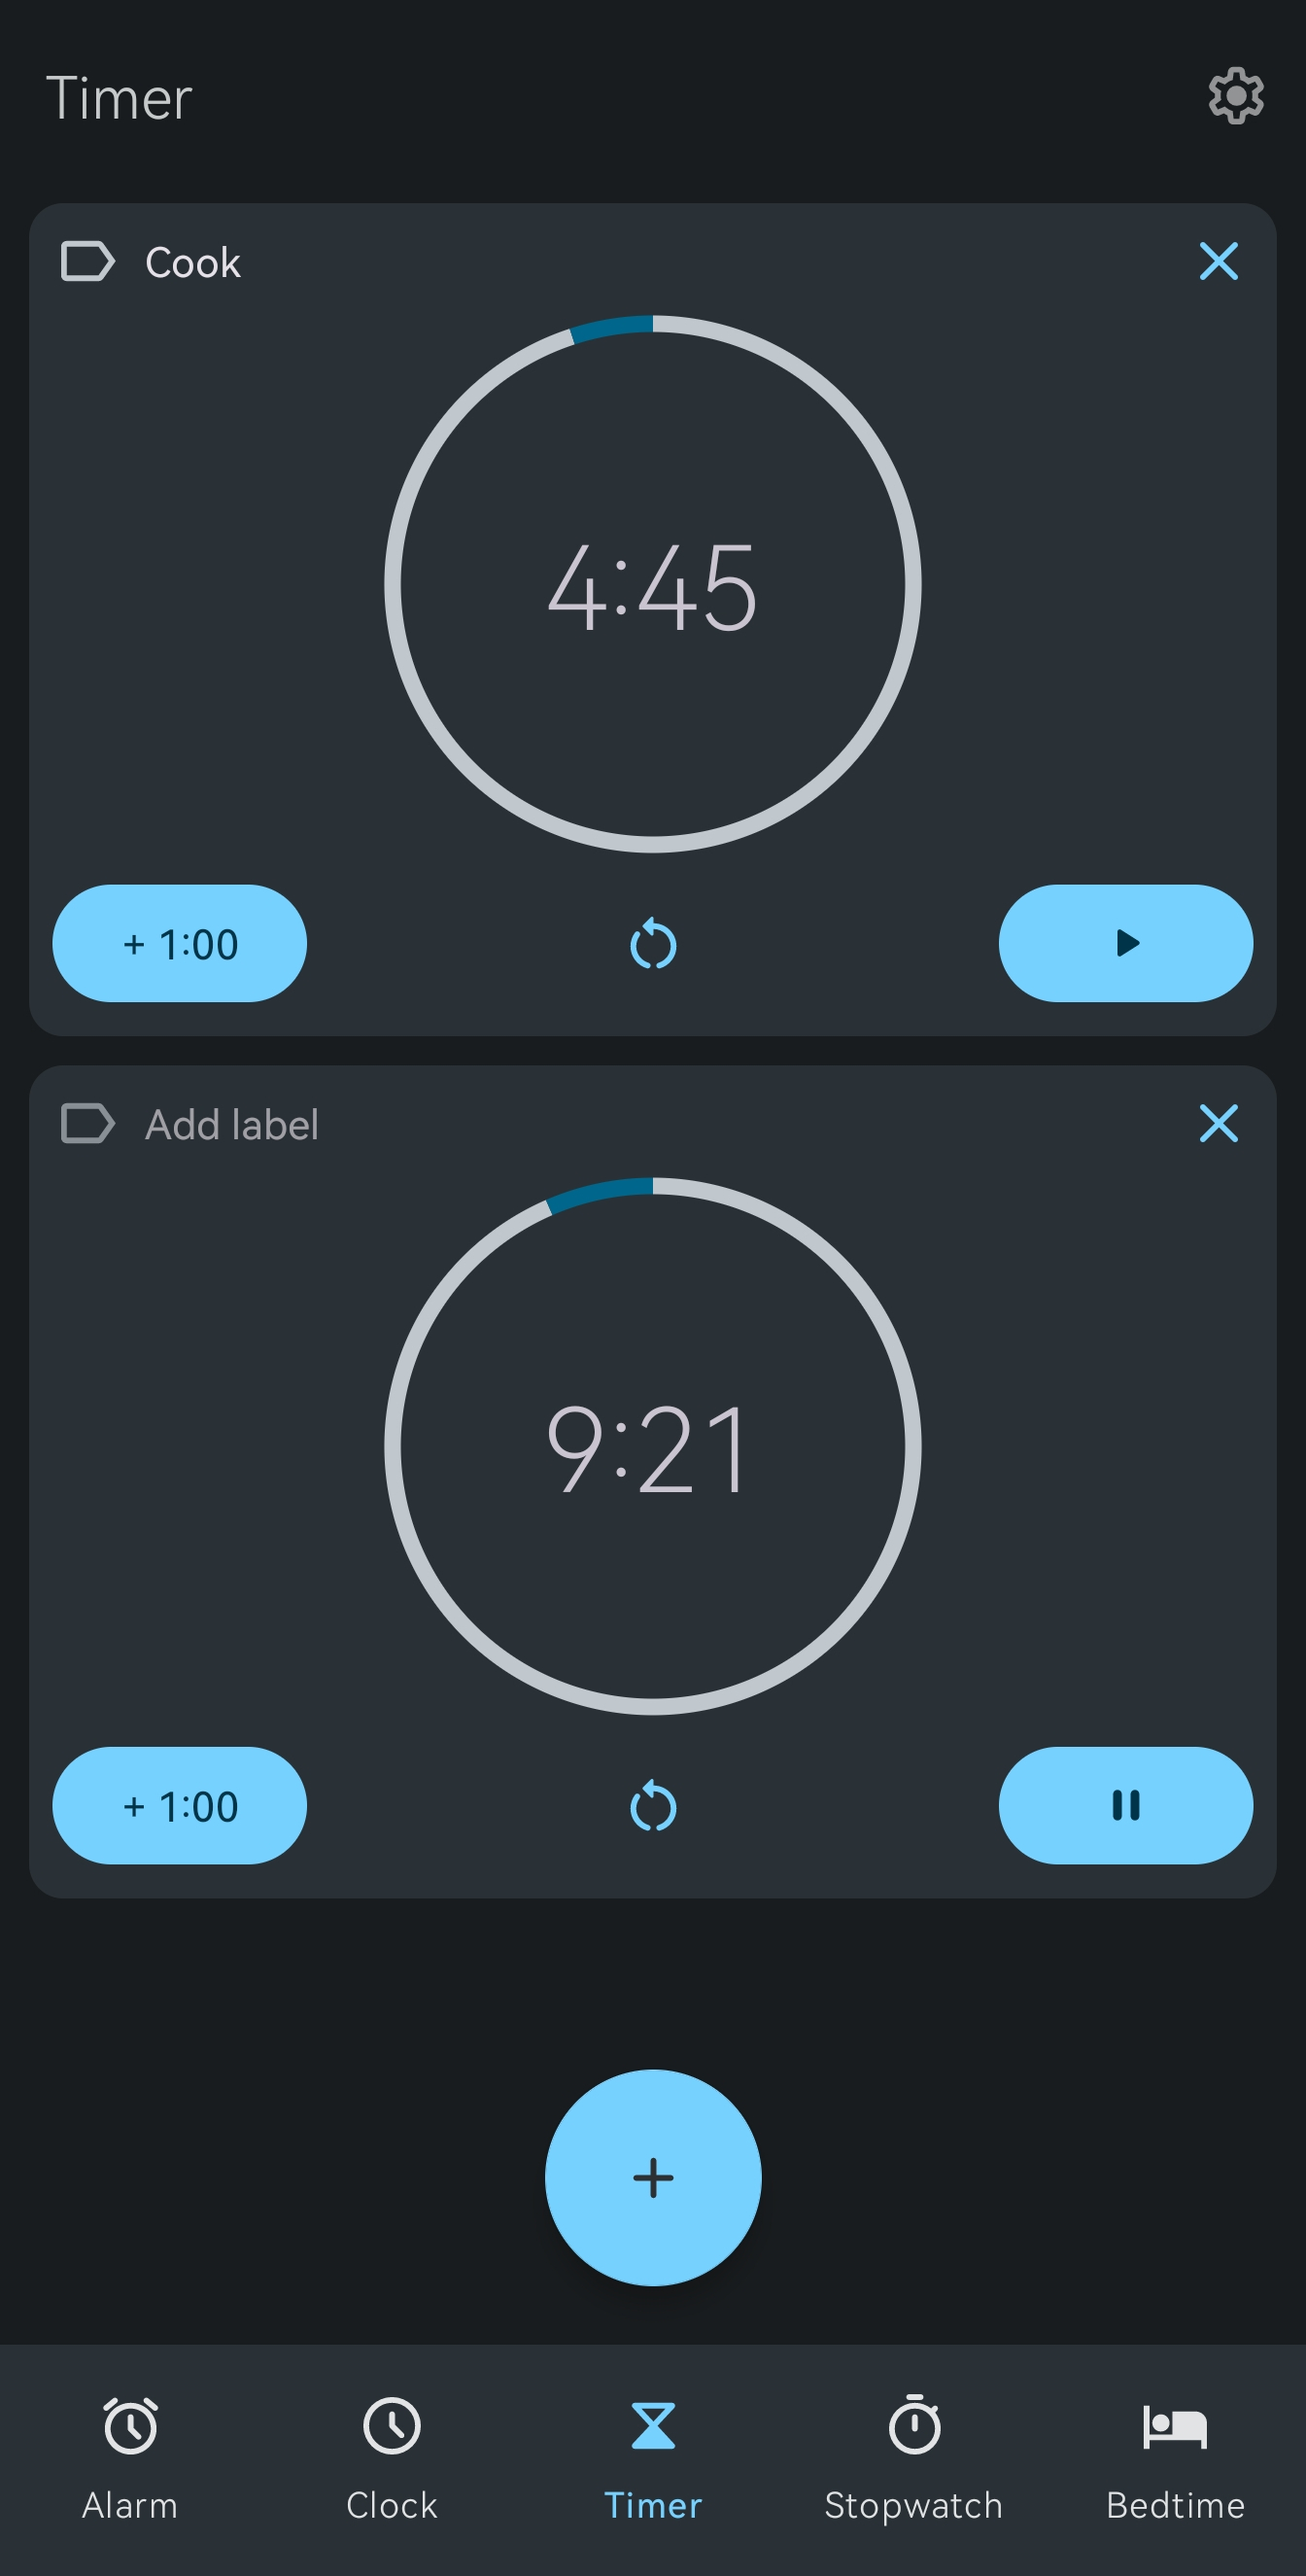
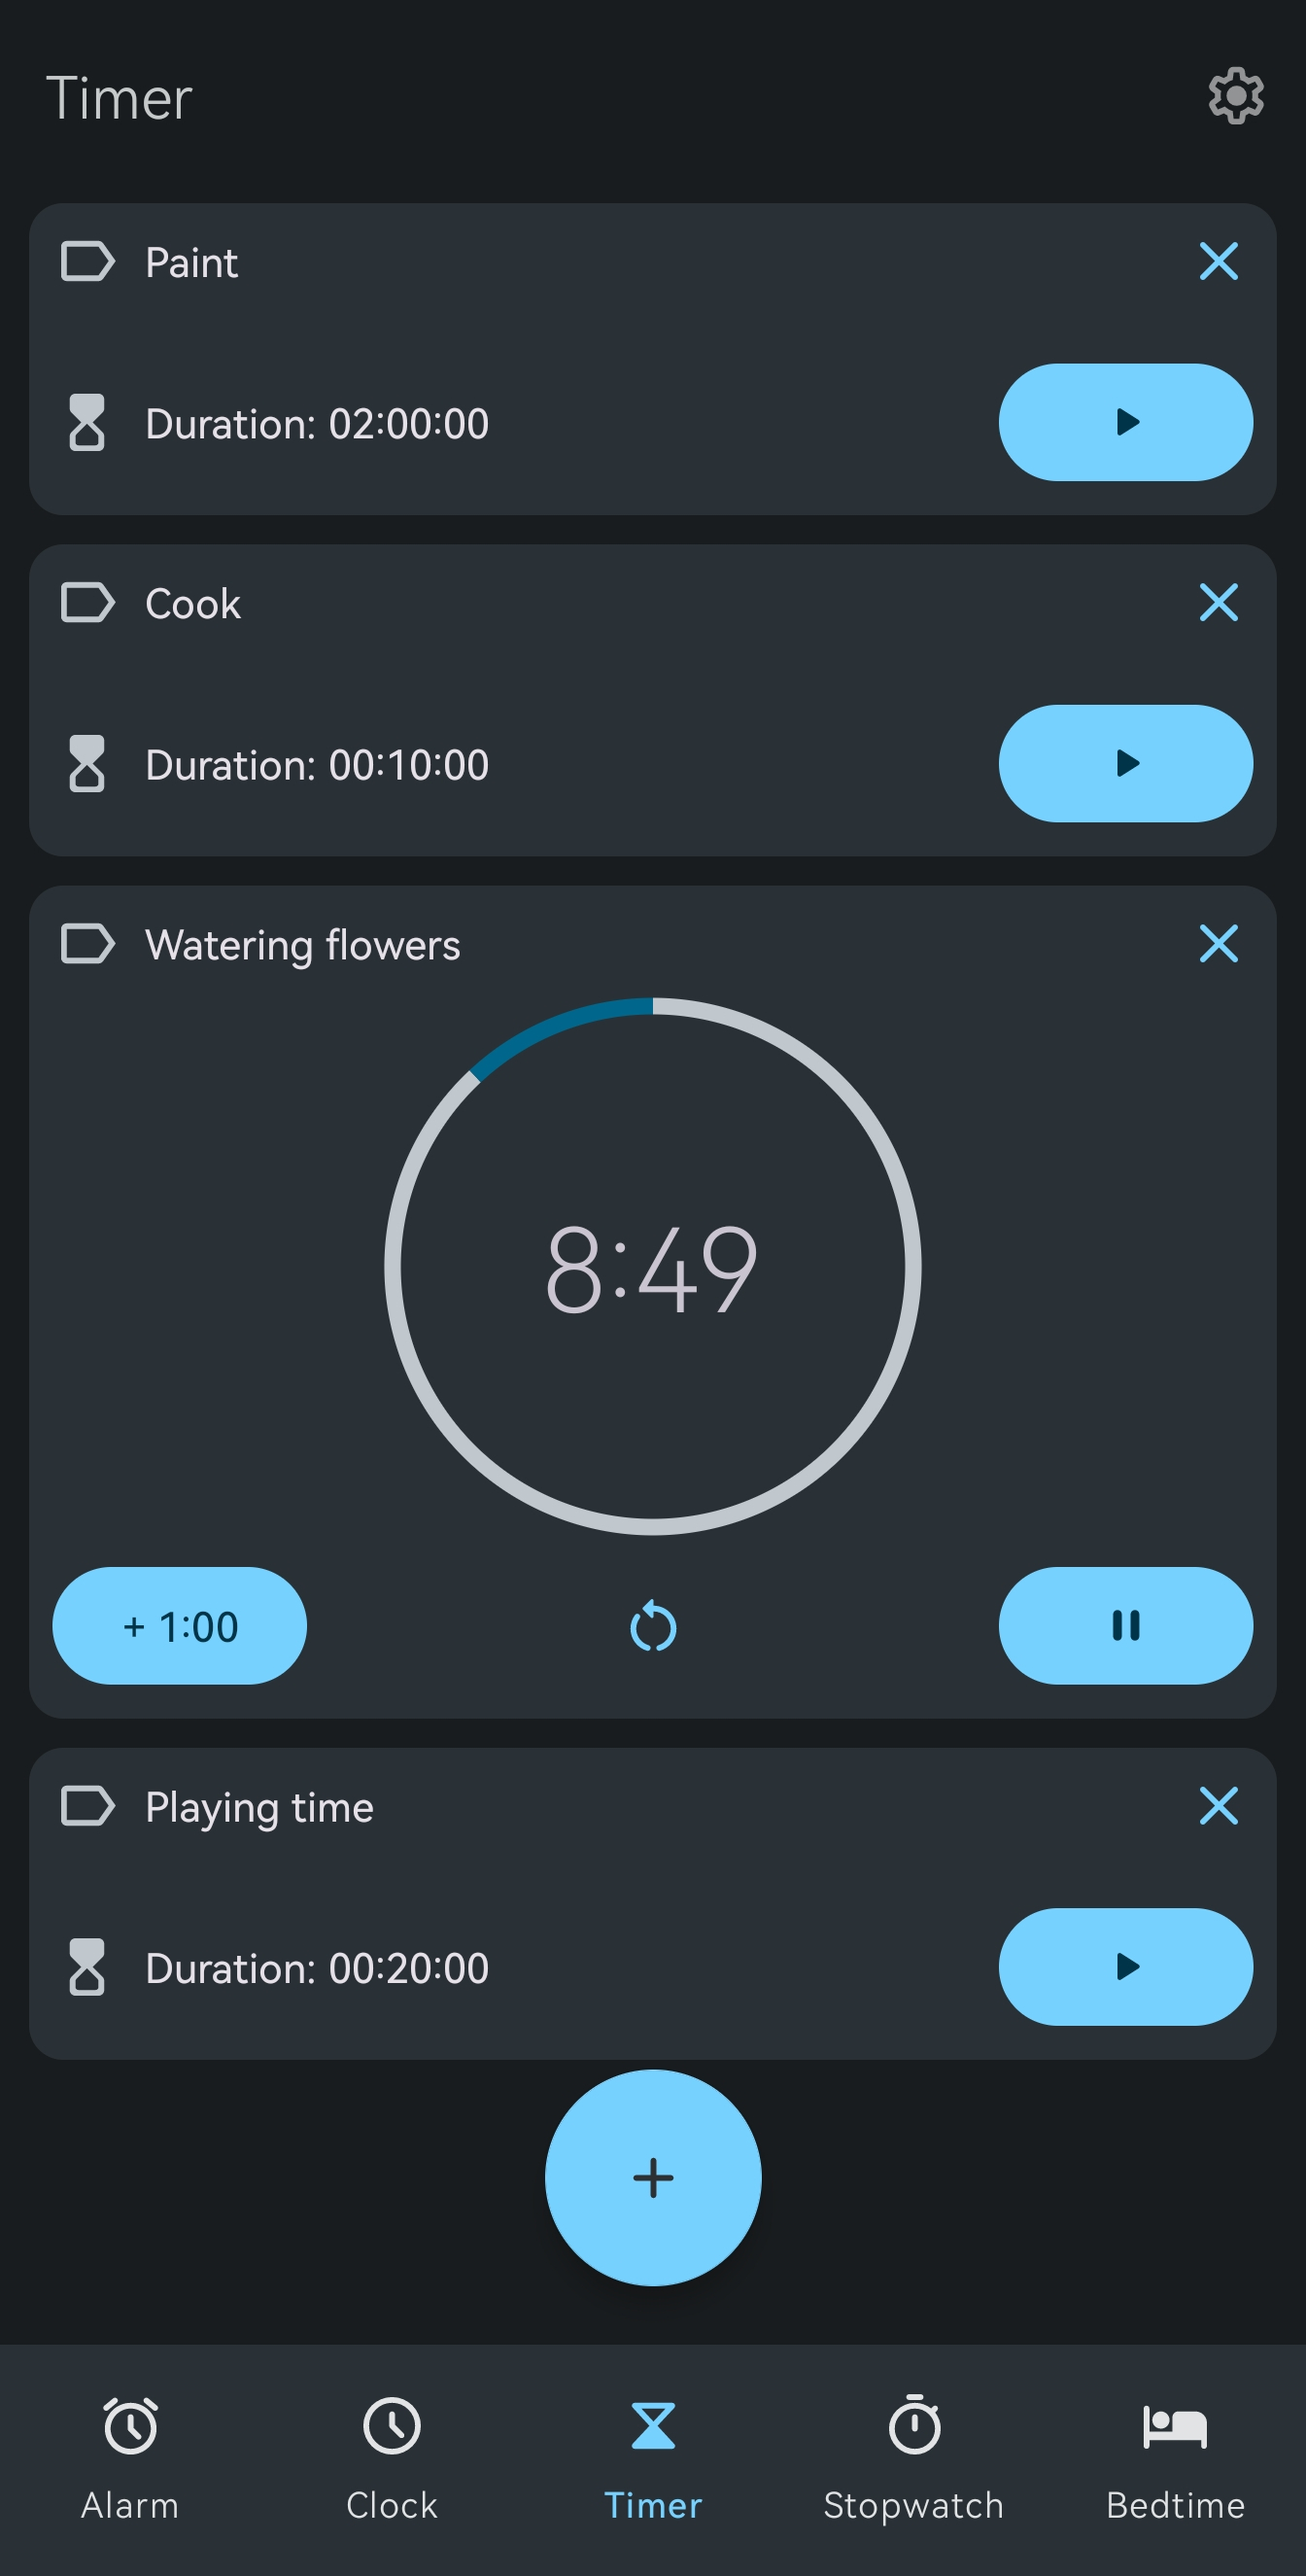
Timer display is reduced when stopped - Fix #30
- Only phones in portrait mode are affected (tablets maintain the same behavior);

diff --git a/app/src/main/java/com/best/deskclock/timer/TimerItem.java b/app/src/main/java/com/best/deskclock/timer/TimerItem.java
@@ -16,8 +16,10 @@ import android.widget.TextView;
 import androidx.appcompat.content.res.AppCompatResources;
 import androidx.constraintlayout.widget.ConstraintLayout;
 
+import com.best.deskclock.CircleButtonsLayout;
 import com.best.deskclock.R;
 import com.best.deskclock.TimerTextController;
+import com.best.deskclock.Utils;
 import com.best.deskclock.data.Timer;
 
 import com.google.android.material.button.MaterialButton;
@@ -26,6 +28,11 @@ import com.google.android.material.button.MaterialButton;
  * This view is a visual representation of a {@link Timer}.
  */
 public class TimerItem extends ConstraintLayout {
+
+    /**
+     * The container of TimerCircleView and TimerTextController
+     */
+    private CircleButtonsLayout mCircleContainer;
 
     /**
      * Formats and displays the text in the timer.
@@ -56,6 +63,11 @@ public class TimerItem extends ConstraintLayout {
      */
     private Timer.State mLastState;
 
+    /**
+     * The timer duration text that appears when the timer is reset
+     */
+    private TextView mTimerTotalDurationText;
+
     public TimerItem(Context context) {
         this(context, null);
     }
@@ -73,8 +85,13 @@ public class TimerItem extends ConstraintLayout {
         mCircleView = findViewById(R.id.timer_time);
         // Displays the remaining time or time since expiration.
         TextView timerText = findViewById(R.id.timer_time_text);
-        mPlayPauseButton = findViewById(R.id.play_pause);
         mTimerTextController = new TimerTextController(timerText);
+        mPlayPauseButton = findViewById(R.id.play_pause);
+        mCircleContainer = findViewById(R.id.circle_container);
+        // Necessary to avoid the null pointer exception, as only the timer_item layout for portrait mode has these attributes
+        if (!Utils.isTablet(getContext()) && !Utils.isLandscape(getContext())) {
+            mTimerTotalDurationText = findViewById(R.id.timer_total_duration);
+        }
     }
 
     /**
@@ -83,6 +100,11 @@ public class TimerItem extends ConstraintLayout {
     void update(Timer timer) {
         // Update the time.
         mTimerTextController.setTimeString(timer.getRemainingTime());
+
+        if (!Utils.isTablet(getContext()) && !Utils.isLandscape(getContext())) {
+            final String totalDuration = timer.getTotalDuration();
+            mTimerTotalDurationText.setText(getContext().getString(R.string.timer_total_duration_text, totalDuration));
+        }
 
         // Update the label if it changed.
         final String label = timer.getLabel();
@@ -115,15 +137,38 @@ public class TimerItem extends ConstraintLayout {
             mResetButton.setContentDescription(resetDesc);
             mAddButton.setVisibility(View.VISIBLE);
             mLastState = timer.getState();
+
+            if (!Utils.isTablet(context) && !Utils.isLandscape(context)) {
+                final ConstraintLayout.LayoutParams params = (ConstraintLayout.LayoutParams) mPlayPauseButton.getLayoutParams();
+                params.topMargin = Utils.toPixel(timer.getState().equals(Timer.State.RESET) ? 20 : 0, context);
+                mPlayPauseButton.setLayoutParams(params);
+            }
+
             switch (mLastState) {
                 case RESET -> {
                     mResetButton.setVisibility(View.GONE);
                     mResetButton.setContentDescription(null);
                     mAddButton.setVisibility(View.INVISIBLE);
                     mPlayPauseButton.setIcon(AppCompatResources.getDrawable(context, R.drawable.ic_fab_play));
+                    if (!Utils.isTablet(context) && !Utils.isLandscape(context)) {
+                        mCircleContainer.setVisibility(GONE);
+                        mTimerTotalDurationText.setVisibility(VISIBLE);
+                    }
                 }
-                case PAUSED -> mPlayPauseButton.setIcon(AppCompatResources.getDrawable(context, R.drawable.ic_fab_play));
-                case RUNNING -> mPlayPauseButton.setIcon(AppCompatResources.getDrawable(context, R.drawable.ic_fab_pause));
+                case PAUSED -> {
+                    mPlayPauseButton.setIcon(AppCompatResources.getDrawable(context, R.drawable.ic_fab_play));
+                    if (!Utils.isTablet(context) && !Utils.isLandscape(context)) {
+                        mCircleContainer.setVisibility(VISIBLE);
+                        mTimerTotalDurationText.setVisibility(GONE);
+                    }
+                }
+                case RUNNING -> {
+                    mPlayPauseButton.setIcon(AppCompatResources.getDrawable(context, R.drawable.ic_fab_pause));
+                    if (!Utils.isTablet(context) && !Utils.isLandscape(context)) {
+                        mCircleContainer.setVisibility(VISIBLE);
+                        mTimerTotalDurationText.setVisibility(GONE);
+                    }
+                }
                 case EXPIRED, MISSED -> {
                     mResetButton.setVisibility(View.GONE);
                     mPlayPauseButton.setIcon(AppCompatResources.getDrawable(context, R.drawable.ic_fab_stop));

diff --git a/app/src/main/java/com/best/deskclock/data/Timer.java b/app/src/main/java/com/best/deskclock/data/Timer.java
@@ -21,6 +21,8 @@ import android.text.TextUtils;
 import java.util.Arrays;
 import java.util.Comparator;
 import java.util.List;
+import java.util.Locale;
+import java.util.concurrent.TimeUnit;
 
 /**
  * A read-only domain object representing a countdown timer.
@@ -201,6 +203,16 @@ public final class Timer {
         // ensure the timer is monotonically decreasing, normalize negative time segments to 0,
         final long timeSinceStart = now() - mLastStartTime;
         return mRemainingTime - Math.max(0, timeSinceStart);
+    }
+
+    /**
+     * @return the total timer duration converted to String
+     */
+    public String getTotalDuration() {
+        long HH = TimeUnit.MILLISECONDS.toHours(getRemainingTime());
+        long MM = TimeUnit.MILLISECONDS.toMinutes(getRemainingTime()) % 60;
+        long SS = TimeUnit.MILLISECONDS.toSeconds(getRemainingTime()) % 60;
+        return String.format(Locale.US, "%02d:%02d:%02d", HH, MM, SS);
     }
 
     /**
